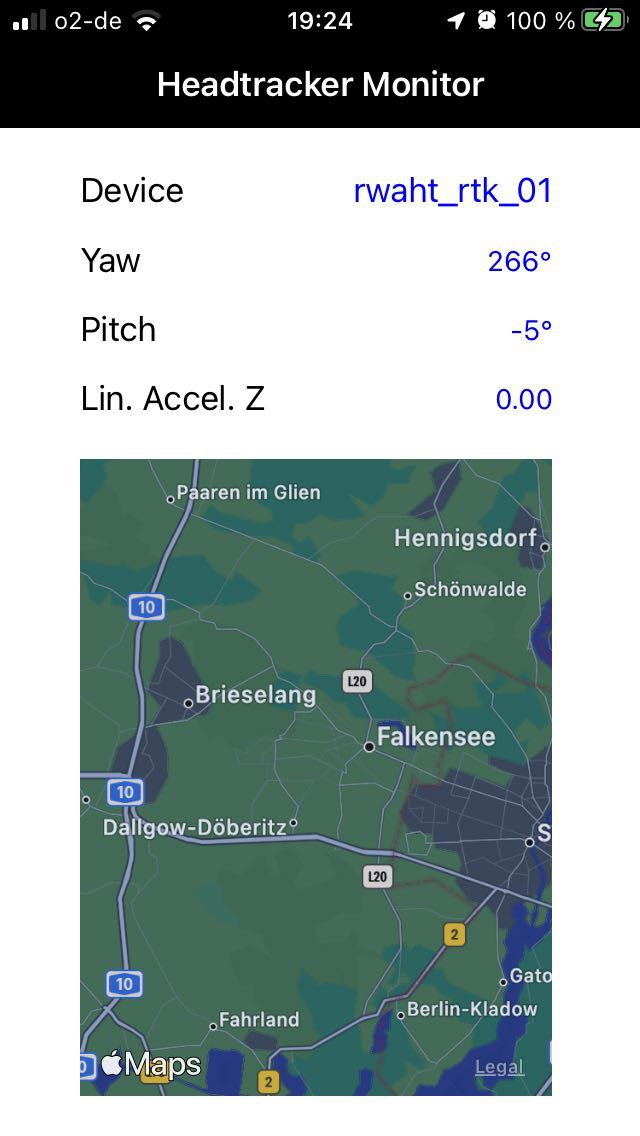
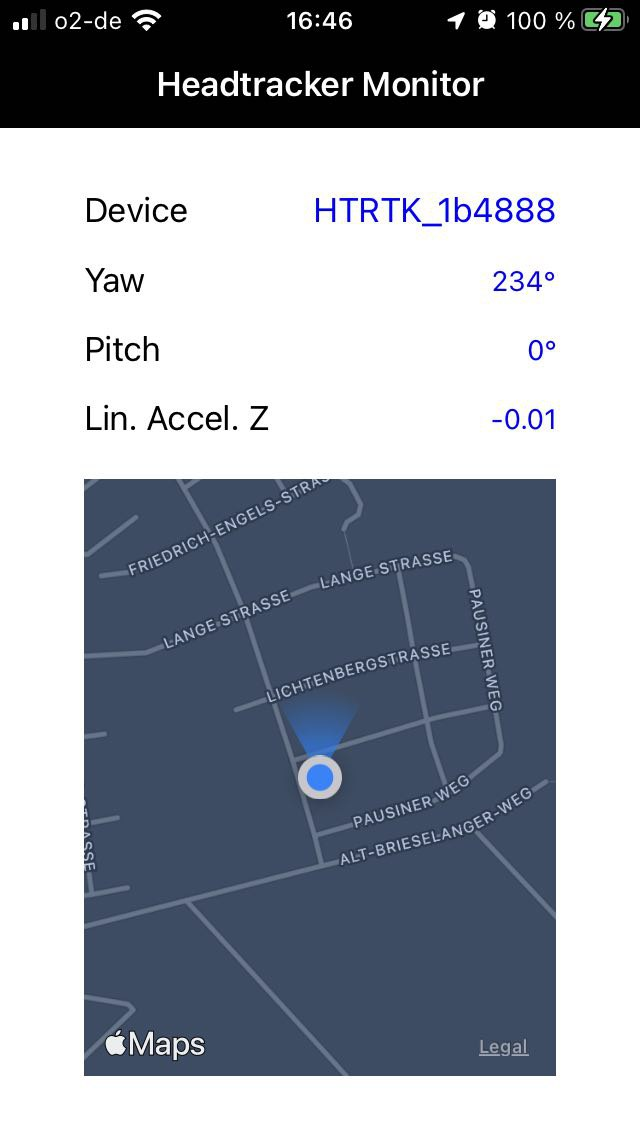
show userLocation with heading, screenshot updated

diff --git a/RwahtRtk/MainViewController.swift b/RwahtRtk/MainViewController.swift
@@ -35,7 +35,7 @@ import CoreLocation
 
 
 
-class MainViewController: UIViewController, MKMapViewDelegate, CLLocationManagerDelegate {
+class MainViewController: UIViewController {
  
   @IBOutlet weak var deviceNameTextField: UITextField!
   @IBOutlet weak var yawTextField: UITextField!
@@ -54,6 +54,7 @@ class MainViewController: UIViewController, MKMapViewDelegate, CLLocationManager
   var centralManager: CBCentralManager!
   var headTrackerPeripheral: CBPeripheral!
   var headtrackerDeviceName = ""
+  
   func setupUI() {
     yawTextField.backgroundColor = UIColor.white
     yawTextField.textColor = UIColor.blue
@@ -86,16 +87,30 @@ class MainViewController: UIViewController, MKMapViewDelegate, CLLocationManager
     setupUI()
     setUIDefaultValues()
     locationManager = CLLocationManager()
-    locationManager.requestWhenInUseAuthorization()
+    locationManager.delegate = self
+    locationManager.desiredAccuracy = kCLLocationAccuracyBest
+    
+    // Check for Location Services
+    if (CLLocationManager.locationServicesEnabled()) {
+        locationManager.requestAlwaysAuthorization()
+        locationManager.requestWhenInUseAuthorization()
+    }
+    
+    locationManager.startUpdatingLocation()
+    locationManager.startUpdatingHeading()
+    mapView.isRotateEnabled = false
+    mapView.setUserTrackingMode(.followWithHeading, animated: false)
+    mapView.showsUserLocation = true
+    
  
     centralManager = CBCentralManager(delegate: self, queue: nil)
     deviceNameTextField.backgroundColor = UIColor.white
     deviceNameTextField.textColor = UIColor.blue
     deviceNameTextField.borderStyle = .none
-    
 
   }
  
+
   
   func onHeadtrackingReceived(_ orientation: String) {
     let delimiter = " "
@@ -113,7 +128,6 @@ class MainViewController: UIViewController, MKMapViewDelegate, CLLocationManager
     }
   }
 }
-
 
 
 extension MainViewController: CBCentralManagerDelegate {
@@ -160,13 +174,9 @@ extension MainViewController: CBCentralManagerDelegate {
   }
   
 
-  
-  
   func centralManager(_ central: CBCentralManager, didDiscover peripheral: CBPeripheral, advertisementData: [String : Any], rssi RSSI: NSNumber) {
     print(String("Peripheral discovered: \(peripheral.name ?? "unknown")"))
     // You can change this to check for UUID from security reasons
-    // TODO: No hard coded device name here
-    //let found: Bool = peripheral.name?.isEqualToString(find: headtrackerDeviceName) ?? false
     let found: Bool = peripheral.name?.starts(with: deviceNamePrefix) ?? false
     if (found) {
       headTrackerPeripheral = peripheral
@@ -256,8 +266,6 @@ extension MainViewController: CBPeripheralDelegate {
 //    print(packetStr)
       return  packetStr
   }
-  
-  
 }
 
 
@@ -270,4 +278,46 @@ extension String {
   func isEqualToString(find: String) -> Bool {
     return String(format: self) == find
   }
+}
+
+
+extension MainViewController: CLLocationManagerDelegate {
+    
+    // iOS 14
+    func locationManagerDidChangeAuthorization(_ manager: CLLocationManager) {
+        if #available(iOS 14.0, *) {
+            switch manager.authorizationStatus {
+            case .notDetermined:
+                print("Not determined")
+            case .restricted:
+                print("Restricted")
+            case .denied:
+                print("Denied")
+            case .authorizedAlways:
+                print("Authorized Always")
+            case .authorizedWhenInUse:
+                print("Authorized When in Use")
+            @unknown default:
+                print("Unknown status")
+            }
+        }
+    }
+    
+    // iOS 13 and below
+    func locationManager(_ manager: CLLocationManager, didChangeAuthorization status: CLAuthorizationStatus) {
+        switch status {
+        case .notDetermined:
+            print("Not determined")
+        case .restricted:
+            print("Restricted")
+        case .denied:
+            print("Denied")
+        case .authorizedAlways:
+            print("Authorized Always")
+        case .authorizedWhenInUse:
+            print("Authorized When in Use")
+        @unknown default:
+            print("Unknown status")
+        }
+    }
 }
